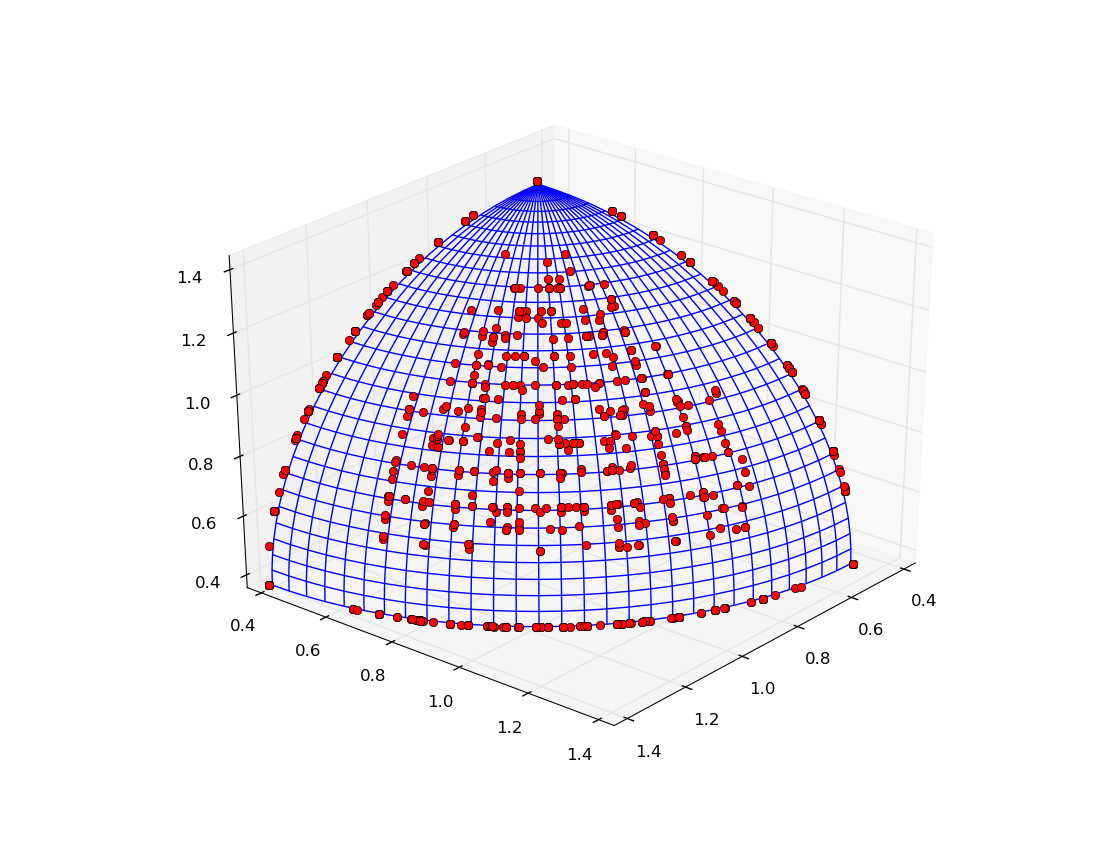
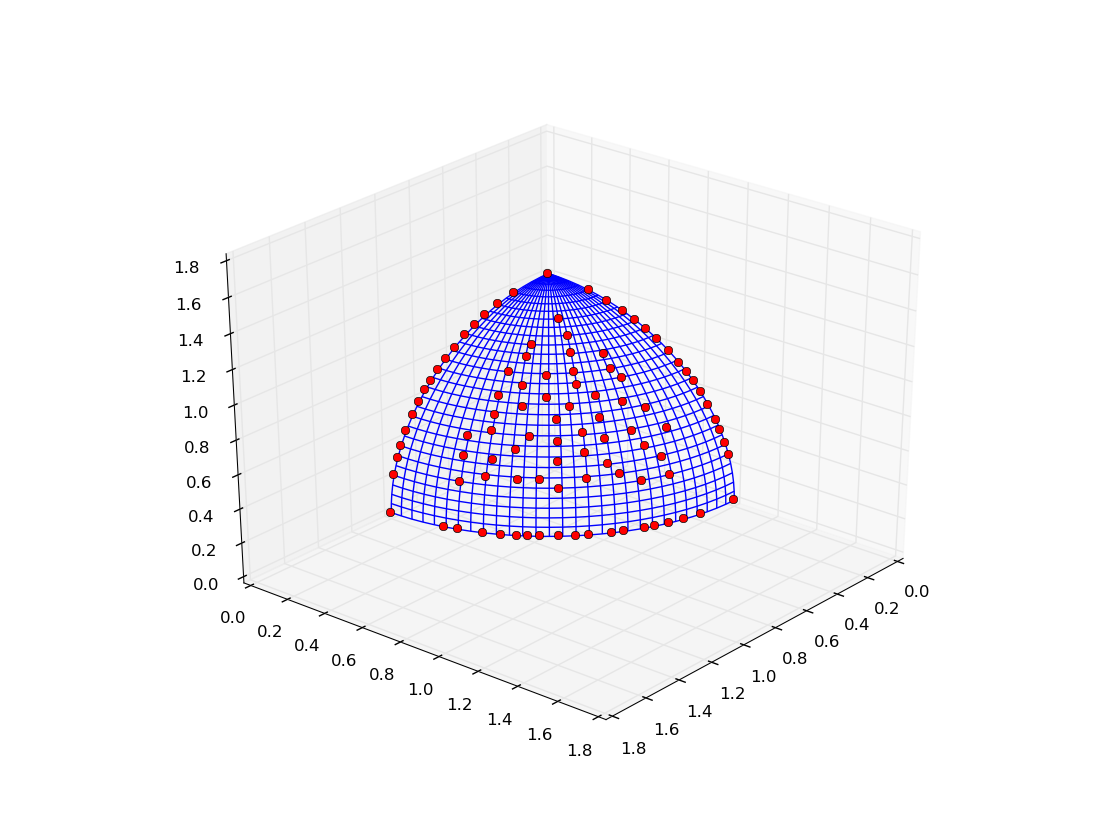
Few fixes to custom algorithm tutorial

diff --git a/doc/sphinx/tutorials/using_hypervolumes_in_your_algorithm.rst b/doc/sphinx/tutorials/using_hypervolumes_in_your_algorithm.rst
@@ -15,89 +15,90 @@ As it is often the case in the tutorials, we will present a fairly simple MOO al
   import random
 
   class my_hv_moo_alg(algorithm.base):
-  	"""
-  	A custom steady-state algorithm, based on the hypervolume computation.
-  	"""
+     """
+     A custom steady-state algorithm, based on the hypervolume computation.
+     """
   
-  	def __init__(self, gen = 10, p_m = 0.02):
-  	   """
-  	   Constructs an instance of the algorithm.
+     def __init__(self, gen = 10, p_m = 0.02):
+        """
+        Constructs an instance of the algorithm.
   
-  	   USAGE: my_hv_moo_alg(gen=10, p_m=0.02)
+        USAGE: my_hv_moo_alg(gen=10, p_m=0.02)
   
-  	   NOTE: Evolves the population using the least contributor feature.
+        NOTE: Evolves the population using the least contributor feature.
   
-  	   * gen: number of generations
-  	   * p_m: probability of mutation
-  	   """
-  	   #We start calling the base constructor
-  	   super(my_hv_moo_alg,self).__init__()
-  	   # Store the number of generations
-  	   self.__gen = gen
-  	   self.__p_m = p_m
+        * gen: number of generations
+        * p_m: probability of mutation
+        """
+        #We start calling the base constructor
+        super(my_hv_moo_alg,self).__init__()
+        # Store the number of generations
+        self.__gen = gen
+        self.__p_m = p_m
   
-  	# Performs a very simple crossover step
-  	def cross(self, ind1, ind2):
-  		x1 = ind1.cur_x
-  		x2 = ind2.cur_x
-  		return tuple(random.choice((x1[i], x2[i],)) for i in xrange(len(x1)))
+     # Performs a very simple crossover step
+     def cross(self, ind1, ind2):
+        x1 = ind1.cur_x
+        x2 = ind2.cur_x
+        return tuple(random.choice((x1[i], x2[i],)) for i in xrange(len(x1)))
   
-	# Gaussian mutation
-	def mutate(self, x, lb, ub):
-
-		# Implementation of the Gaussian operator
-		def _g_op(i):
-			return min(max(random.gauss(x[i], (ub[i]-lb[i]) * 0.1), lb[i]), ub[i])
-
-		# Condition for the mutation to happen
-		def _rnd_mut():
-			return random.random() < self.__p_m
-
-		return tuple(_g_op(i) if _rnd_mut() else x[i] for i in xrange(len(x)))
+     # Gaussian mutation
+     def mutate(self, x, lb, ub):
   
-  	# Evolve method
-  	def evolve(self, pop):
-  		#If the population is empty (i.e. no individuals) nothing happens
-  		if len(pop) == 0:
-  		 	 return pop
+        # Implementation of the Gaussian operator
+        def _g_op(i):
+           return min(max(random.gauss(x[i], (ub[i]-lb[i]) * 0.1), lb[i]), ub[i])
   
-  		#The algorithm now starts manipulating the population
-  		prob = pop.problem
-  		lb, ub = prob.lb, prob.ub
-  		for s in range(self.__gen):
-  			# Initiate new individual by a crossover of two random individuals
-  			idx1 = random.randint(0, len(pop) - 1)
-  			idx2 = (idx1 + random.randint(0, len(pop) - 2)) % len(pop)
-  			ind1 = pop[idx1]
-  			ind2 = pop[idx2]
+        # Condition for the mutation to happen
+        def _rnd_mut():
+           return random.random() < self.__p_m
   
-  			new_x = self.mutate(self.cross(ind1, ind2), lb, ub)
-  			#new_x = self.cross(ind1, ind2)
-  			pop.push_back(new_x)
+        return tuple(_g_op(i) if _rnd_mut() else x[i] for i in xrange(len(x)))
   
-  			# Remove the least contributor
-  			hv = hypervolume(pop)
-  			ref_point = hv.get_nadir_point(1.0)
-  			lc_idx = hv.least_contributor(ref_point)
+     # Evolve method
+     def evolve(self, pop):
+        #If the population is empty (i.e. no individuals) nothing happens
+        if len(pop) == 0:
+             return pop
   
-  			pop.erase(lc_idx)
-  		return pop
+        #The algorithm now starts manipulating the population
+        prob = pop.problem
+        lb, ub = prob.lb, prob.ub
+        for s in range(self.__gen):
+           # Initiate new individual by a crossover of two random individuals
+           idx1 = random.randint(0, len(pop) - 1)
+           idx2 = (idx1 + random.randint(0, len(pop) - 2)) % len(pop)
+           ind1 = pop[idx1]
+           ind2 = pop[idx2]
   
-  	def get_name(self):
-  		   return "Custom HV-based MOO"
+           new_x = self.mutate(self.cross(ind1, ind2), lb, ub)
+           #new_x = self.cross(ind1, ind2)
+           pop.push_back(new_x)
+  
+           # Remove the least contributor
+           hv = hypervolume(pop)
+           ref_point = hv.get_nadir_point(1.0)
+           lc_idx = hv.least_contributor(ref_point)
+  
+           pop.erase(lc_idx)
+        return pop
+  
+     def get_name(self):
+           return "Custom HV-based MOO"
 
   def main():
-  	prob = problem.dtlz2(fdim=3)
-  	alg = my_hv_moo_alg(gen = 100, p_m=0.02)
-  	pop = population(prob, 100)
-  	# Establish a constant reference point, so the increase is noticed
-  	ref_point = (3000,) * 3
-  	for _ in xrange(100):
-  		pop = alg.evolve(pop)
-  		print "P-Distance: %.5f, Hypervolume: %.5f" % (prob.p_distance(pop), hypervolume(pop).compute(ref_point))
+     prob = problem.dtlz2(fdim=3)
+     alg = my_hv_moo_alg(gen = 100, p_m=0.02)
+     pop = population(prob, 100)
+     # Establish a constant reference point, so the increase is noticed
+     ref_point = (3000,) * 3
+     for _ in xrange(100):
+        pop = alg.evolve(pop)
+        print "P-Distance: %.5f, Hypervolume: %.5f" % (prob.p_distance(pop), hypervolume(pop).compute(ref_point))
+     prob.plot(pop)
 
   if __name__ == "__main__":
-    main()
+     main()
 
 You can copy the whole code above and save it as a python script (e.g. **my_alg.py**), this way you can execute it yourself by issuing the following in the command line: **python my_alg.py**.
 
@@ -113,65 +114,60 @@ Script above should produce an output similar to the one below:
 
 .. code-block:: bash
 
-  P-Distance: 982.90490, Hypervolume: 26703057342.25552
-  P-Distance: 923.07177, Hypervolume: 26765472304.25195
+  P-Distance: 0.77281, Hypervolume: 26999518559.47130
+  P-Distance: 0.66491, Hypervolume: 26999704053.34119
+  P-Distance: 0.51330, Hypervolume: 26999704183.90998
   .
   .
   .
-  P-Distance: 175.55168, Hypervolume: 26999891371.53866
-  P-Distance: 159.27361, Hypervolume: 26999893128.48610
-  P-Distance: 166.28669, Hypervolume: 26999898041.68138
+  P-Distance: 0.00026, Hypervolume: 26999999999.42529
+  P-Distance: 0.00026, Hypervolume: 26999999999.42529
+  P-Distance: 0.00024, Hypervolume: 26999999999.42531
 
-.. note::
+We can observe an improvement over the consecutive generations both in the distance to the Pareto front (P-Distance) and the hypervolume indicator itself.
+The result of the script should be a plot similar to the one below:
 
-  Output above (especially the final value of ``P-Distance``) may differ over the executions of the script.
-  In most cases you should observe the final ``P-Distance`` to be within a range of 50 to 300, and the ``Hypervolume`` to increase monotonically.
+.. image:: ../images/tutorials/hv_custom_algo.png
+  :width: 850px
 
-The end effect is far from spectacular as the algorithm itself is quite limited.
-However, we can observe an improvement over the consecutive generations both in the distance towards the Pareto front (P-Distance) and the hypervolume indicator itself.
-
-
-Let us give the algorithm some more time, and see whether it actually converges to a decent front.
-For this, we will employ the information from the previous tutorial `migration_based_on_hypervolumes`. Substitute the ``main()`` in the script above with the following experiment, which will initiate an archipelago with our custom algorithm on-board.
+Custom algorithms can also be used in the archipelago evolution.
+For this, we will employ the information from the previous tutorial :ref:`migration_based_on_hypervolumes`. Substitute the ``main()`` method in the script above with the following experiment, which will initiate an archipelago with our custom algorithm on-board.
 
 .. code-block:: python
 
- def main():
-	prob = problem.dtlz2(fdim=3)
-	alg = my_hv_moo_alg(gen = 100, p_m=0.02)
+  def main():
+     prob = problem.dtlz2(fdim=3)
+     alg = my_hv_moo_alg(gen = 100, p_m=0.02)
+     #alg = sms_emoa(gen = 100)
+  
+     # Initiate the migration policies
+     s_pol = migration.hv_best_s_policy(0.1, migration.rate_type.fractional)
+     r_pol = migration.hv_fair_r_policy(0.1, migration.rate_type.fractional)
+  
+     # Set up the archipelago
+     n_islands = 16
+     n_individuals = 64
+     arch = archipelago(topology=topology.fully_connected())
+     islands = [island(alg, prob, n_individuals, s_policy=s_pol, r_policy=r_pol) for i in xrange(n_islands)]
+     for i in islands:
+        arch.push_back(i)
+  
+     # Evolve
+     n_steps = 20
+     for s in xrange(n_steps):
+        print "Evolving archipelago, step %d/%d" % (s, n_steps)
+        arch.evolve(1)
+  
+     # Merge all populations across the islands together
+     pop = population(prob)
+     for isl in arch:
+        for ind in isl.population:
+           pop.push_back(ind.cur_x)
+  
+     print "Final P-Distance: ", prob.p_distance(pop)
+     prob.plot(pop)
 
-	# Initiate the migration policies
-	s_pol = migration.hv_best_s_policy(0.25, migration.rate_type.fractional)
-	r_pol = migration.hv_fair_r_policy(0.25, migration.rate_type.fractional)
+The execution of the script should result in a plot similar to the one below:
 
-	# Set up the archipelago
-	n_islands = 16
-	n_individuals = 64
-	arch = archipelago(topology=topology.fully_connected())
-	islands = [island(alg, prob, n_individuals, s_policy=s_pol, r_policy=r_pol) for i in xrange(n_islands)]
-	for i in islands:
-		arch.push_back(i)
-
-	# Evolve
-	n_steps = 130
-	for s in xrange(n_steps):
-		print "Evolving archipelago %d/%d" % (s, n_steps)
-		arch.evolve(1)
-
-	# Merge all populations across the islands together
-	pop = population(prob)
-	for isl in arch:
-		for ind in isl.population:
-			pop.push_back(ind.cur_x)
-
-	print "P-Distance: ", prob.p_distance(pop)
-	prob.plot(pop)
-
-.. note::
-  Be wary that python implementations of algorithms are much slower than their C++ equivalents.
-  The script above may take up to several minutes to evaluate.
-
-The result of the script should be a plot similar to the one below (sometimes it may take more than one run of the script to obtain it):
-
-.. image:: ../images/tutorials/hv_custom_algo.png
+.. image:: ../images/tutorials/hv_custom_algo_archi.png
   :width: 850px
